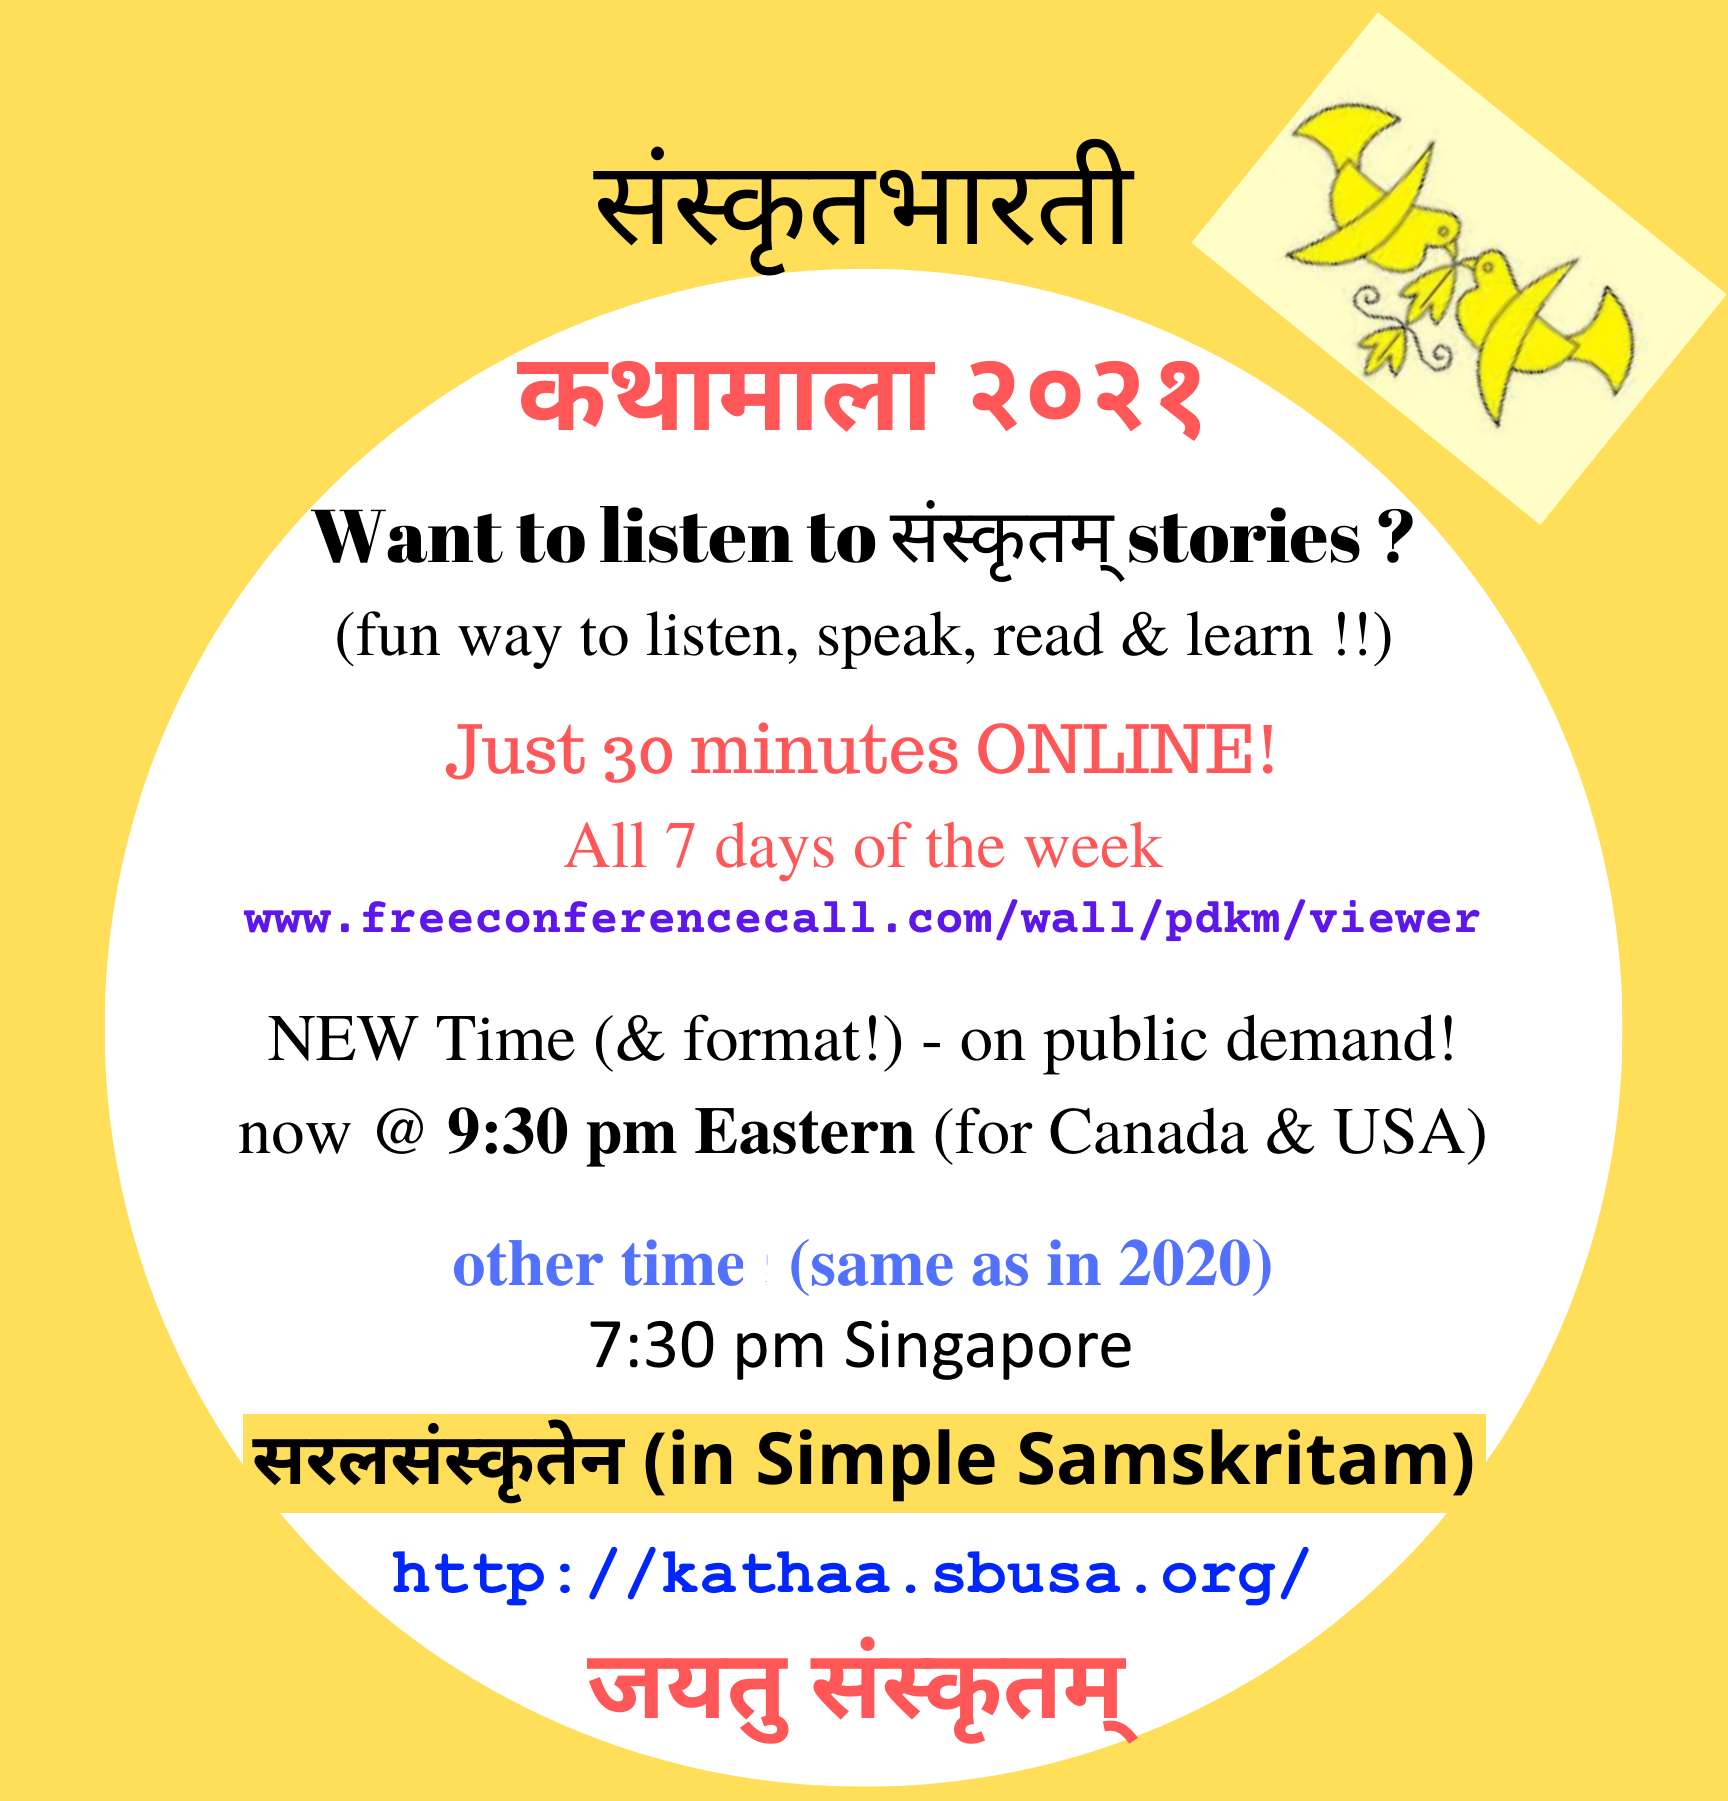
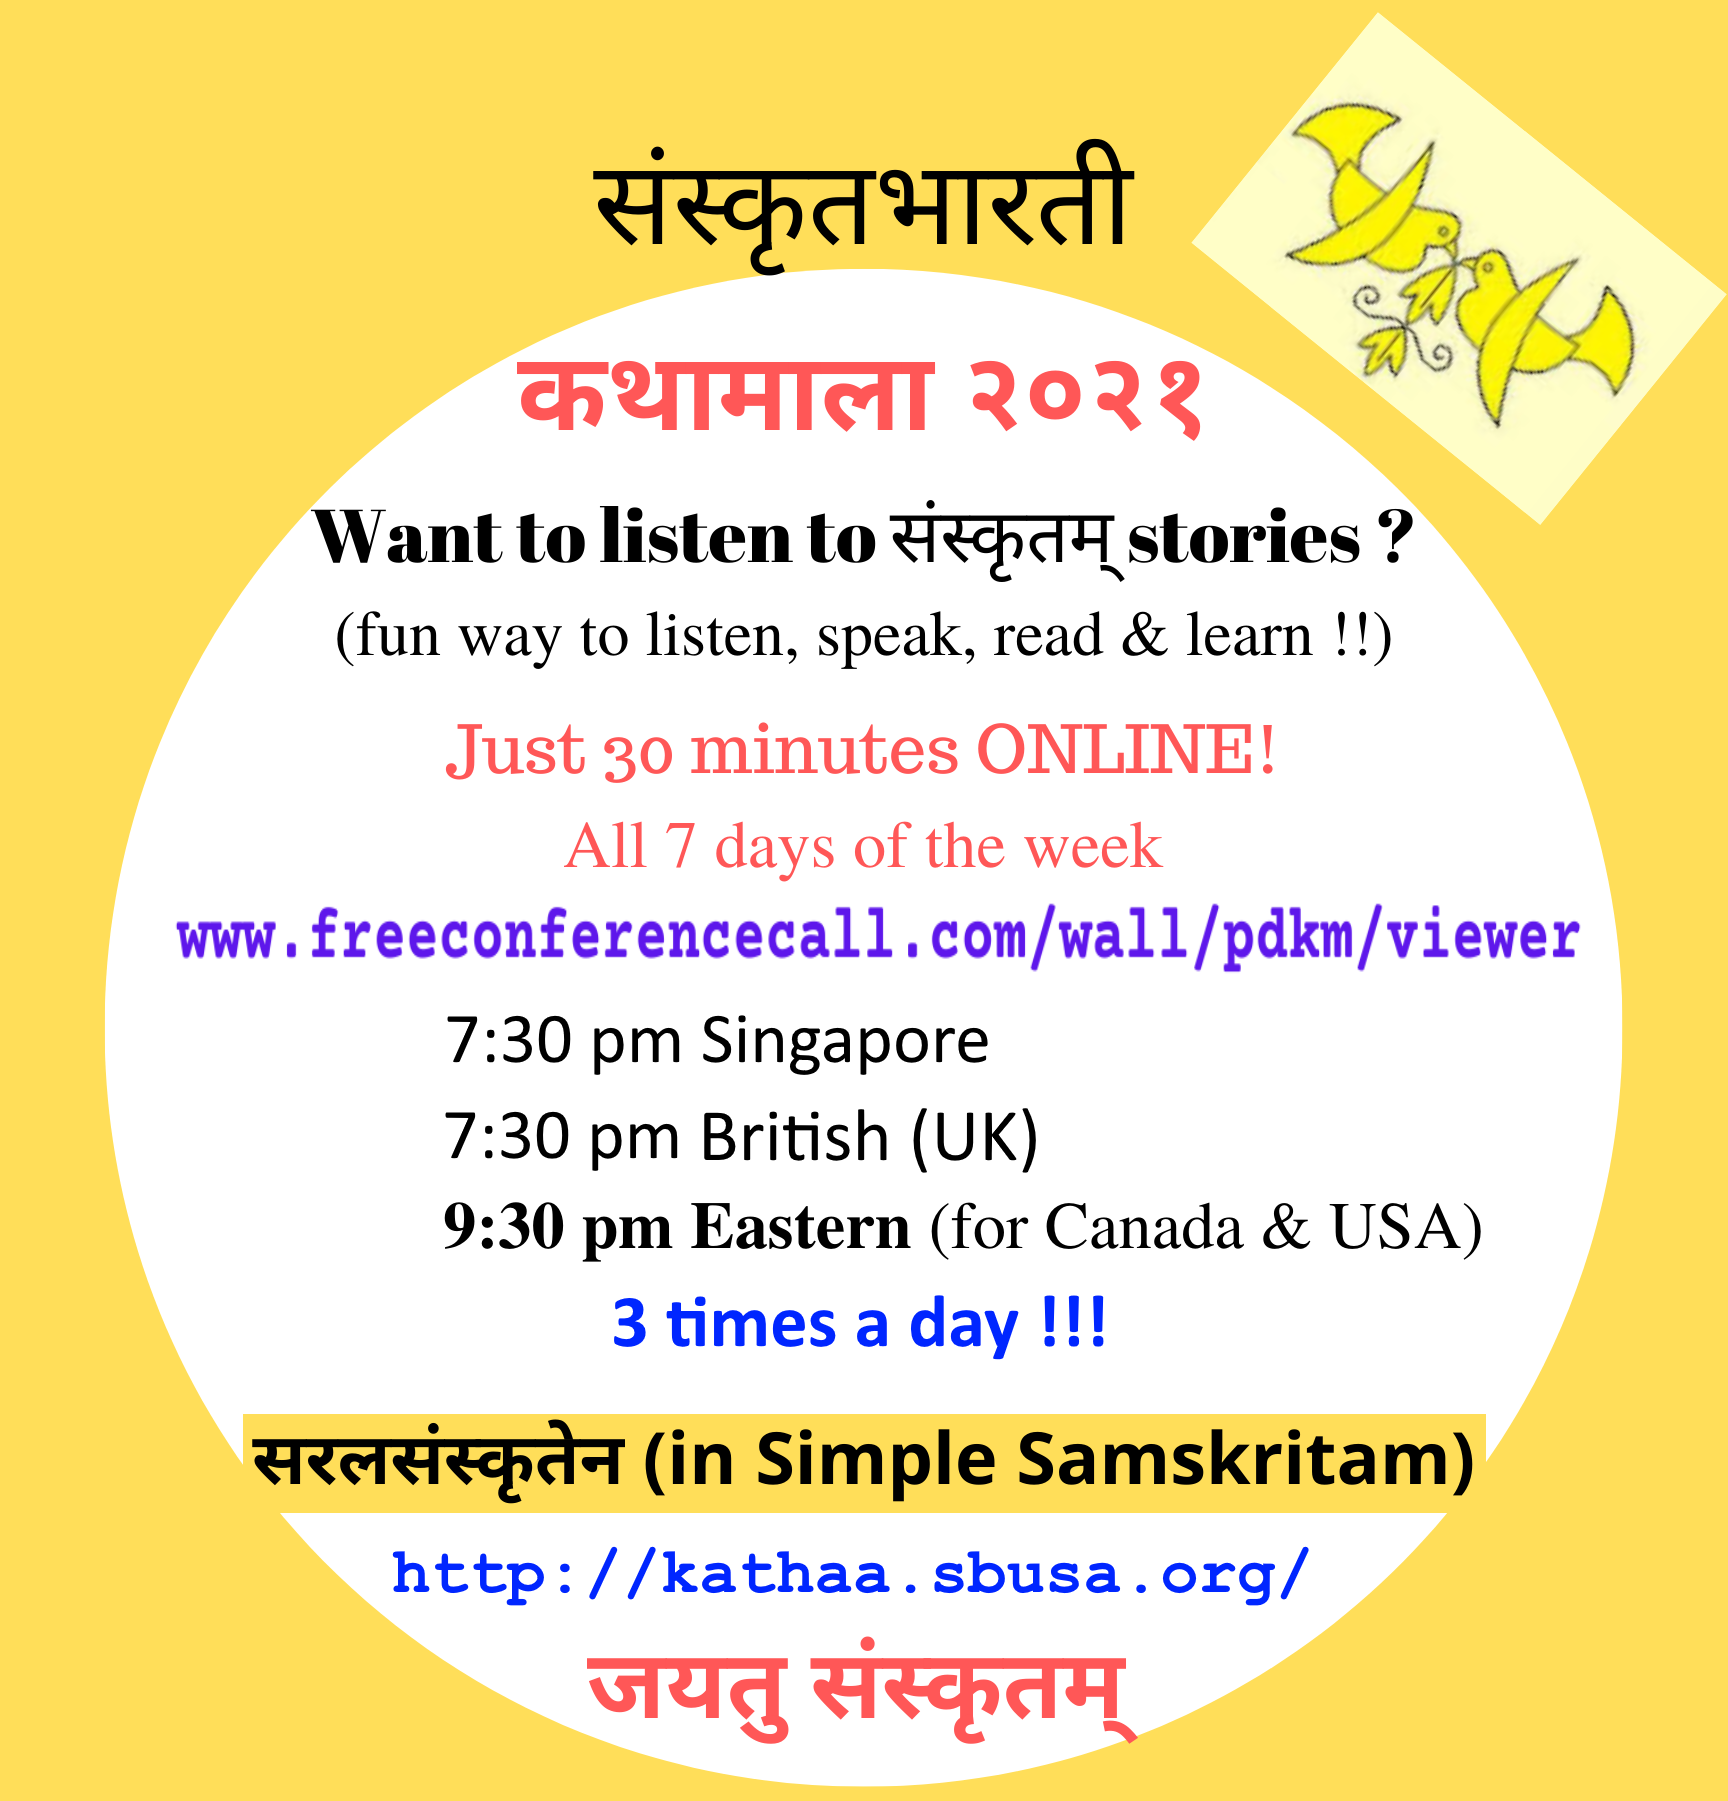
km21-uk

Changed region(s): [[0.125, 0.6219, 0.8438, 0.7773], [0.0938, 0.4975, 0.9062, 0.5908]]

diff --git a/km21.html b/km21.html
@@ -26,9 +26,9 @@
 <!--<img style="display:none" data-natural-width="1479" data-natural-height="1915" data-lazy-loaded="" data-src="https://kathaa.ml/info7.jpg">-->
 <ul>
 <!--<li>These sessions maybe recorded</li>
-<li><span style="color:rgb(251, 108, 11)">कृपया Please MUTE when NOT speaking!</span></li>-->
-<li><span style="color:rgb(00, 00, 255)">ॐ 🕉 🚩 प्रतिदिनं "रामायणपारायणम्" अपि भविष्यति 🙏</span></li>
-<li>.. about 15 minutes @ 10pm Eastern (US/Canada) as well as 7:30pm Singapore time - listen to <strong>raamaayaNam</strong> </li>
+<li><span style="color:rgb(251, 108, 11)">कृपया Please MUTE when NOT speaking!</span></li> 🕉 🚩 प्रतिदिनं "रामायणपारायणम्" अपि भविष्यति -->
+<li><span style="color:rgb(00, 00, 255)">ॐ  🙏 from 23rd Aug </span></li>
+<li>7:30 pm Singapore time<br>7:30 pm British time<br>9:30 pm Eastern (US/Canada) time<br><strong>same kathaa/subhaashitam - 3 times daily!</strong> </li>
 <!--<li><span style="color:rgb(255, 00, 00)">कथामाला-आधारेण प्रश्नावली ✔ - https://t.me/kathaaH on FREE Telegram App (JOIN!)</span></li>-->
 <!--<li>for Singapore - 7:30pm (same as in 2020)</li>-->
 </ul>
